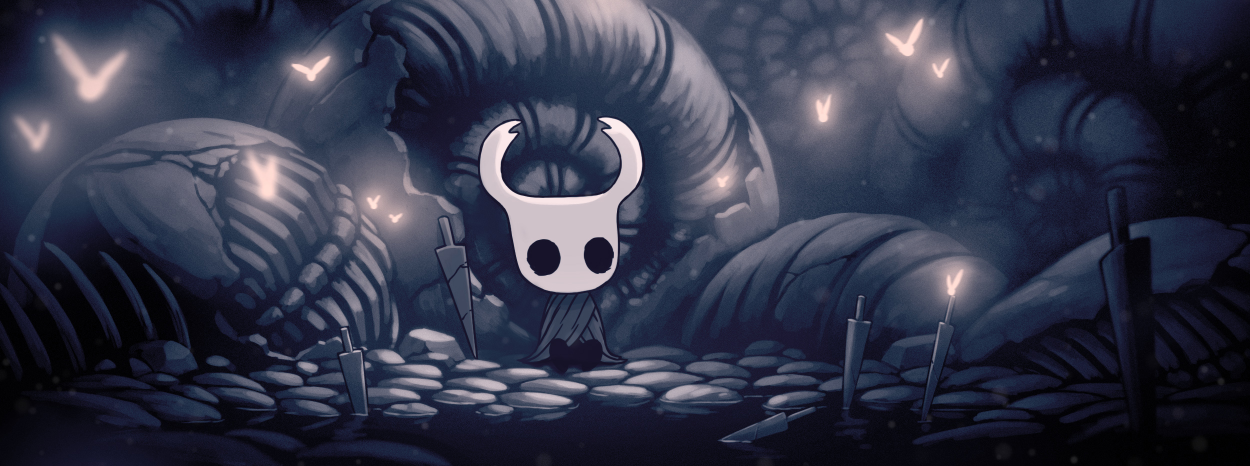
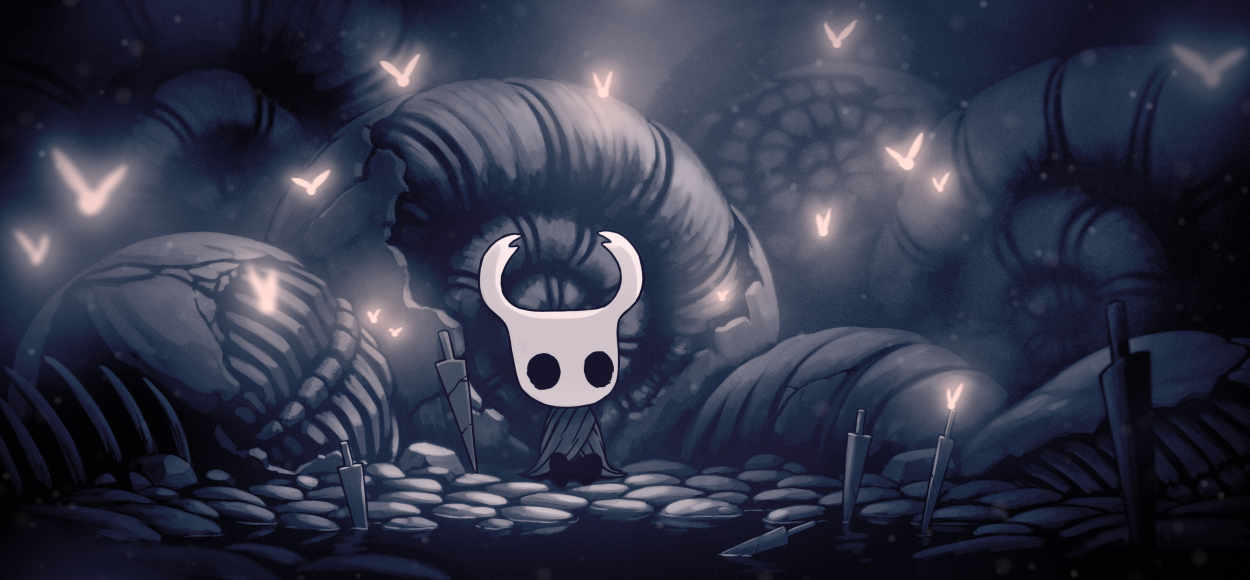
Pushed footer to bottom

diff --git a/index.html b/index.html
@@ -9,7 +9,7 @@
 		<link href="https://fonts.googleapis.com/css?family=Noto+Serif" rel="stylesheet">
 	</head>
 
-	<body>
+	<body class="flex-wrapper home-background"> <!-- Pushes footer down to bottom of page. -->
 		<header>
 			<section class="cf header-top container">
 				<a href="index.html">
@@ -34,7 +34,7 @@
 			</section>
 		</header>
 		
-		<section class="home-background">
+		<section>
 			<div class="grid container">
 				<a href="bosses.html" class="col-1-4 home-col">
 					<h5>Bosses</h5>

diff --git a/assets/styles/main.css b/assets/styles/main.css
@@ -200,9 +200,20 @@ footer a {
 	position: relative;
 }
 
+.flex-wrapper {
+	display: flex;
+	min-height: 100vh;
+	flex-direction: column;
+	justify-content: space-between
+}
+
+
 /* BACKGROUNDS */
 
 .home-background {
-	background-size: cover;
+	background-size: auto 100%;
 	background-image: url("images/home-background.png");
+	background-repeat: no-repeat;
+	background-position: fixed;
+	background-attachment: center bottom;
 }

diff --git a/gauntlets.html b/gauntlets.html
@@ -8,7 +8,7 @@
 		<link href="https://fonts.googleapis.com/css?family=Roboto" rel="stylesheet">
 	</head>
 
-  	<body>
+  	<body class="flex-wrapper">
 		<header>
 			<section class="cf header-top container">
 				<a href="index.html">

diff --git a/about.html b/about.html
@@ -8,7 +8,7 @@
 		<link href="https://fonts.googleapis.com/css?family=Roboto" rel="stylesheet">
 	</head>
   
-	<body>
+	<body class="flex-wrapper">
 		<header>
 			<section class="cf header-top container">
 				<a href="index.html">

diff --git a/bosses.html b/bosses.html
@@ -8,7 +8,7 @@
 		<link href="https://fonts.googleapis.com/css?family=Roboto" rel="stylesheet">
 	</head>
   
-	<body>
+	<body class="flex-wrapper">
 		<header>
 			<section class="cf header-top container">
 				<a href="index.html">

diff --git a/enemies.html b/enemies.html
@@ -8,7 +8,7 @@
 		<link href="https://fonts.googleapis.com/css?family=Roboto" rel="stylesheet">
 	</head>
   
-	<body>
+	<body class="flex-wrapper">
 		<header>
 			<section class="cf header-top container">
 				<a href="index.html">
